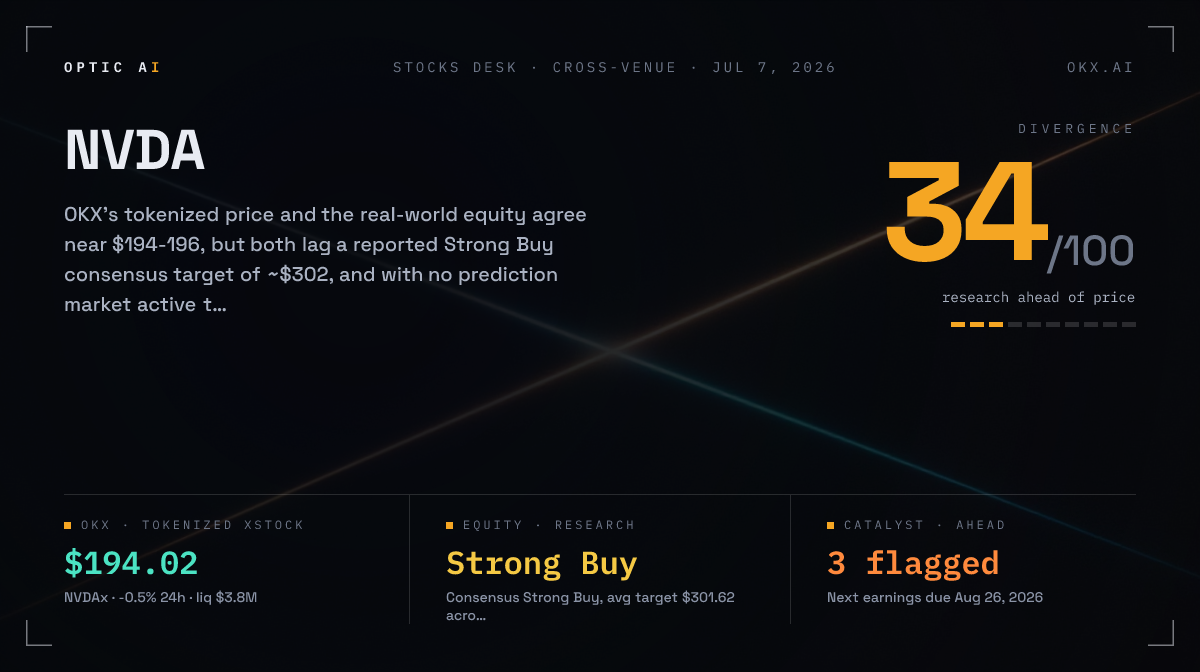
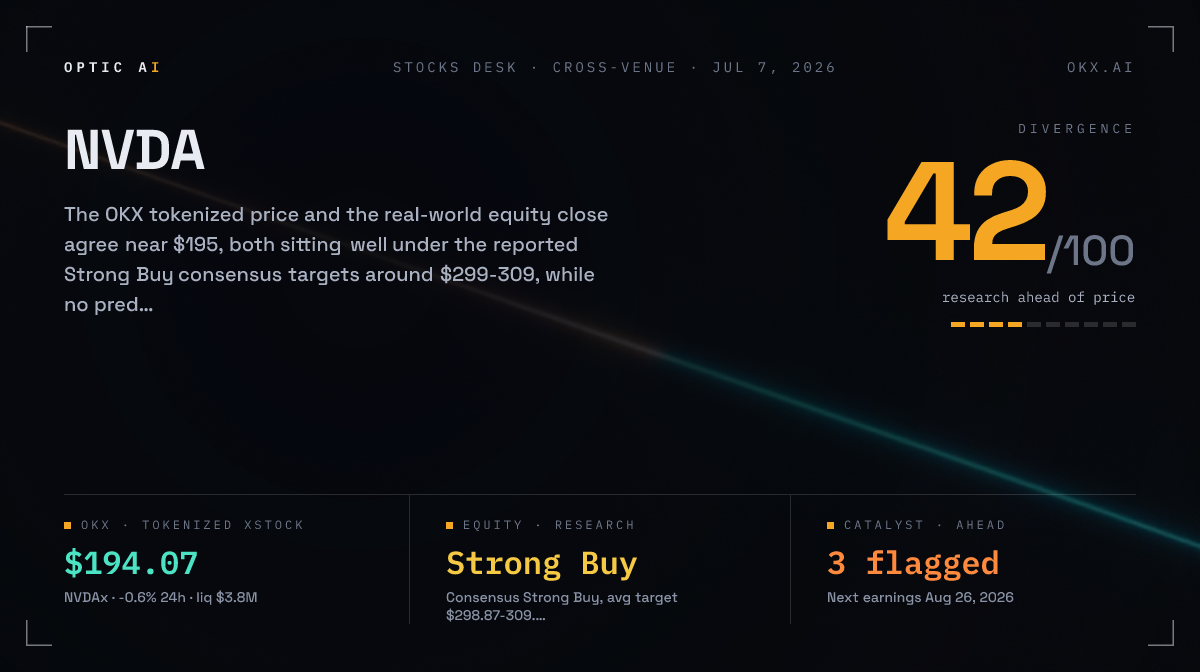
feat(card): add Rug Radar + Narrative Timing cards; generate demo card set for all 7 services
Rug and Timing were the only paid services without a shareable card. Added both:
rug uses a RISK score hero (colored by level) with level/flags/positives chips;
timing uses a HOTNESS hero (colored by stage) with stage/hotness/age chips.
RugVerdict/TimingVerdict share resolved.type 'token' with Verdict, so the renderer
now discriminates by unique fields (venues/risk/timing). Pipeline rug/timing
branches now render + serve cards. Added scripts/demo-cards.ts and regenerated
fixtures/cards/demo/{read,edge,daily,smart,rug,timing,stocks}.png from live data.

diff --git a/src/card/render.ts b/src/card/render.ts
@@ -3,10 +3,10 @@ import { join } from "node:path";
 import satori from "satori";
 import { html } from "satori-html";
 import { Resvg } from "@resvg/resvg-js";
-import type { DailyVerdict, EdgeVerdict, ScanVerdict, SmartMoneyVerdict, StockVerdict, Verdict } from "../types.js";
+import type { DailyVerdict, EdgeVerdict, RugVerdict, ScanVerdict, SmartMoneyVerdict, StockVerdict, TimingVerdict, Verdict } from "../types.js";
 import { generateBackground } from "./venice.js";
 
-type AnyVerdict = Verdict | ScanVerdict | DailyVerdict | EdgeVerdict | SmartMoneyVerdict | StockVerdict;
+type AnyVerdict = Verdict | ScanVerdict | DailyVerdict | EdgeVerdict | SmartMoneyVerdict | StockVerdict | RugVerdict | TimingVerdict;
 import { BudgetGuard } from "../pipeline/budget.js";
 import { config } from "../config.js";
 import { isCliEntry } from "../fixtures.js";
@@ -213,20 +213,113 @@ function stockChips(v: StockVerdict): Chip[] {
   ];
 }
 
+const RISK_COLOR = (lvl?: string): string =>
+  lvl === "danger" ? "#ff5a5a" : lvl === "elevated" ? "#ff8a3d" : lvl === "caution" ? "#f5c944" : "#4be3c3";
+const STAGE_COLOR = (s?: string): string =>
+  s === "peaking" ? "#ff8a3d" : s === "igniting" ? "#4be3c3" : s === "building" ? "#f5c944" : s === "cooling" ? "#8a93a6" : MUTE;
+
+const fmtAge = (hours: number | null): string => {
+  if (hours === null) return "—";
+  if (hours < 48) return `${Math.round(hours)}h`;
+  return `${Math.round(hours / 24)}d`;
+};
+
+function rugChips(v: RugVerdict): Chip[] {
+  const r = v.risk;
+  const flags = r?.flags ?? [];
+  const pos = r?.positives ?? [];
+  return [
+    {
+      lens: "risk level",
+      stat: (r?.level ?? "—").toUpperCase(),
+      color: RISK_COLOR(r?.level),
+      sub: flags[0] ? trunc(flags[0], 46) : "no red flags found",
+    },
+    {
+      lens: "red flags",
+      stat: `${flags.length} flagged`,
+      color: "#ff8a3d",
+      sub: trunc(flags[1] ?? flags[0] ?? "clean scan", 46),
+    },
+    {
+      lens: "positives",
+      stat: `${pos.length} ok`,
+      color: "#4be3c3",
+      sub: trunc(pos[0] ?? "none noted", 46),
+    },
+  ];
+}
+
+function timingChips(v: TimingVerdict): Chip[] {
+  const t = v.timing;
+  return [
+    {
+      lens: "stage",
+      stat: (t?.stage ?? "—").toUpperCase(),
+      color: STAGE_COLOR(t?.stage),
+      sub: trunc(t?.read ?? "no timing read", 46),
+    },
+    {
+      lens: "hotness · 24h",
+      stat: t?.hotness != null ? String(Math.round(t.hotness)) : "—",
+      color: "#f5c944",
+      sub: t?.hotness_change_pct != null ? `${fmtPct(t.hotness_change_pct, true)} vs prior window` : "no change data",
+    },
+    {
+      lens: "age",
+      stat: fmtAge(t?.age_hours ?? null),
+      color: "#4be3c3",
+      sub: t?.engagement_change_pct != null ? `engagement ${fmtPct(t.engagement_change_pct, true)}` : "since launch",
+    },
+  ];
+}
+
 // ── template ──────────────────────────────────────────────────────────
 
 function template(v: AnyVerdict): ReturnType<typeof html> {
+  // RugVerdict/TimingVerdict share resolved.type "token" with Verdict, so detect
+  // them by their unique fields (Verdict is the only one carrying `venues`).
+  const has = (k: string): boolean => Object.prototype.hasOwnProperty.call(v, k);
   const isScan = v.resolved.type === "scan";
   const isDaily = v.resolved.type === "daily";
   const isEdge = v.resolved.type === "edge";
   const isSmart = v.resolved.type === "smartmoney";
   const isStock = v.resolved.type === "stock";
-  const isVerdict = !isScan && !isDaily && !isEdge && !isSmart && !isStock;
-  // Stocks share the divergence-score hero, but the divergence lives under stock.
-  const div = isVerdict ? (v as Verdict).divergence : isStock ? (v as StockVerdict).stock?.divergence ?? null : null;
-  const score = div ? div.score : null;
-  const direction = div ? div.direction.replace(/_/g, " ") : null;
-  const ticksOn = score === null ? 0 : Math.round(score / 10);
+  const isRug = !isStock && has("risk") && !has("venues");
+  const isTiming = !isStock && has("timing") && !has("risk") && !has("venues");
+
+  // Hero panel for the "big number" modes (verdict / stock / rug / timing).
+  let heroLabel = "DIVERGENCE";
+  let heroNum: number | null = null;
+  let heroSuffix = "/100";
+  let heroDir: string | null = null;
+  let heroColor = AMBER;
+  let heroTicks = true;
+  if (isRug) {
+    const r = (v as RugVerdict).risk;
+    heroLabel = "RISK";
+    heroNum = r ? r.score : null;
+    heroDir = r ? r.level : null;
+    heroColor = RISK_COLOR(r?.level);
+  } else if (isTiming) {
+    const t = (v as TimingVerdict).timing;
+    heroLabel = "HOTNESS";
+    heroSuffix = "";
+    heroNum = t?.hotness != null ? Math.round(t.hotness) : null;
+    heroDir = t?.stage ?? null;
+    heroColor = STAGE_COLOR(t?.stage);
+    heroTicks = t?.hotness != null;
+  } else if (isStock) {
+    const div = (v as StockVerdict).stock?.divergence ?? null;
+    heroNum = div ? div.score : null;
+    heroDir = div ? div.direction.replace(/_/g, " ") : null;
+  } else {
+    const div = (v as Verdict).divergence;
+    heroNum = div ? div.score : null;
+    heroDir = div ? div.direction.replace(/_/g, " ") : null;
+  }
+  const ticksOn = heroNum === null ? 0 : Math.min(10, Math.round(heroNum / 10));
+
   const chips = isScan
     ? scanChips(v as ScanVerdict)
     : isDaily
@@ -237,7 +330,11 @@ function template(v: AnyVerdict): ReturnType<typeof html> {
           ? smartChips(v as SmartMoneyVerdict)
           : isStock
             ? stockChips(v as StockVerdict)
-            : verdictChips(v as Verdict);
+            : isRug
+              ? rugChips(v as RugVerdict)
+              : isTiming
+                ? timingChips(v as TimingVerdict)
+                : verdictChips(v as Verdict);
   const kicker = isScan
     ? "market scan · discovery read"
     : isDaily
@@ -248,7 +345,11 @@ function template(v: AnyVerdict): ReturnType<typeof html> {
           ? "smart money · accumulation"
           : isStock
             ? "stocks desk · cross-venue"
-            : "cross-venue read";
+            : isRug
+              ? "rug radar · safety scan"
+              : isTiming
+                ? "narrative timing · lifecycle"
+                : "cross-venue read";
   const scanTop = isScan ? (v as ScanVerdict).scan.rising[0] : null;
   const tipCount = isDaily
     ? (v as DailyVerdict).tips.length
@@ -298,15 +399,19 @@ function template(v: AnyVerdict): ReturnType<typeof html> {
                  <div style="display:flex;font-size:40px;color:${MUTE};font-weight:500;">x</div>
                </div>
                <div style="display:flex;font-family:'IBM Plex Mono';margin-top:10px;font-size:14px;color:#aab2c2;">${esc(scanTop ? `$${scanTop.symbol} mention rate vs 24h` : "no signal")}</div>`
-            : `<div style="display:flex;font-family:'IBM Plex Mono';font-size:13px;letter-spacing:4px;color:${MUTE};">DIVERGENCE</div>
+            : `<div style="display:flex;font-family:'IBM Plex Mono';font-size:13px;letter-spacing:4px;color:${MUTE};">${heroLabel}</div>
                <div style="display:flex;align-items:baseline;margin-top:8px;">
-                 <div style="display:flex;font-size:140px;line-height:0.95;font-weight:700;letter-spacing:-5px;color:${AMBER};">${score ?? "—"}</div>
-                 <div style="display:flex;font-size:42px;color:${MUTE};font-weight:500;">/100</div>
+                 <div style="display:flex;font-size:140px;line-height:0.95;font-weight:700;letter-spacing:-5px;color:${heroColor};">${heroNum ?? "—"}</div>
+                 ${heroSuffix ? `<div style="display:flex;font-size:42px;color:${MUTE};font-weight:500;">${heroSuffix}</div>` : ""}
                </div>
-               <div style="display:flex;font-family:'IBM Plex Mono';margin-top:10px;font-size:14px;color:#aab2c2;">${esc(direction ?? "")}</div>
-               <div style="display:flex;margin-top:16px;">
-                 ${Array.from({ length: 10 }, (_, i) => `<div style="display:flex;width:14px;height:5px;margin-left:5px;background-color:${i < ticksOn ? AMBER : "rgba(255,255,255,.14)"};"></div>`).join("")}
+               <div style="display:flex;font-family:'IBM Plex Mono';margin-top:10px;font-size:14px;color:#aab2c2;">${esc(heroDir ?? "")}</div>
+               ${
+                 heroTicks
+                   ? `<div style="display:flex;margin-top:16px;">
+                 ${Array.from({ length: 10 }, (_, i) => `<div style="display:flex;width:14px;height:5px;margin-left:5px;background-color:${i < ticksOn ? heroColor : "rgba(255,255,255,.14)"};"></div>`).join("")}
                </div>`
+                   : ""
+               }`
         }
       </div>
     </div>

diff --git a/scripts/demo-cards.ts b/scripts/demo-cards.ts
@@ -1,0 +1,42 @@
+import { runRead, type ForceMode } from "../src/pipeline/index.js";
+import { cardPath } from "../src/card/render.js";
+import { copyFileSync, mkdirSync } from "node:fs";
+import { setTimeout as sleep } from "node:timers/promises";
+
+// Generate one demo card per marketplace service from live data.
+const DEMO = "fixtures/cards/demo";
+mkdirSync(DEMO, { recursive: true });
+
+const jobs: Array<{ name: string; query: string; mode?: ForceMode }> = [
+  { name: "read", query: "pepe" },
+  { name: "edge", query: "edge", mode: "edge" },
+  { name: "daily", query: "daily", mode: "daily" },
+  { name: "smart", query: "smartmoney", mode: "smartmoney" },
+  { name: "rug", query: "6g2ifQHewJ3CgD3ysAhcm9J6z4TtXYdRQ3S5Xx4vpump", mode: "rug" },
+  { name: "timing", query: "pepe", mode: "timing" },
+  { name: "stocks", query: "NVDA", mode: "stocks" },
+];
+
+for (const j of jobs) {
+  console.log(`\n=== ${j.name} (${j.query}) ===`);
+  try {
+    const { readId, verdict } = await runRead(j.query, j.mode ? { forceMode: j.mode } : {});
+    console.log("verdict:", ((verdict as { verdict_line?: string }).verdict_line ?? "").slice(0, 110));
+    let p: string | null = null;
+    for (let i = 0; i < 30; i++) {
+      p = cardPath(readId);
+      if (p) break;
+      await sleep(1000);
+    }
+    if (p) {
+      copyFileSync(p, `${DEMO}/${j.name}.png`);
+      console.log("saved:", `${DEMO}/${j.name}.png`);
+    } else {
+      console.log("NO CARD for", j.name);
+    }
+  } catch (e) {
+    console.log("FAILED", j.name, String(e).slice(0, 200));
+  }
+}
+console.log("\ndone");
+process.exit(0);

diff --git a/src/pipeline/index.ts b/src/pipeline/index.ts
@@ -145,7 +145,9 @@ export async function runRead(query: string, opts: { paidTx?: string; forceMode?
           card_url: null,
         };
       }
-      completeRead(readId, resolved, v, null, budget.total());
+      const card = await renderCardBounded(readId, v, budget);
+      await applyCard(v, card, readId);
+      completeRead(readId, resolved, v, v.card_url, budget.total());
       if (paidTx) db.prepare("UPDATE reads SET paid_tx = ? WHERE id = ?").run(paidTx, readId);
       return { readId, verdict: v, costUsd: budget.total() };
     }